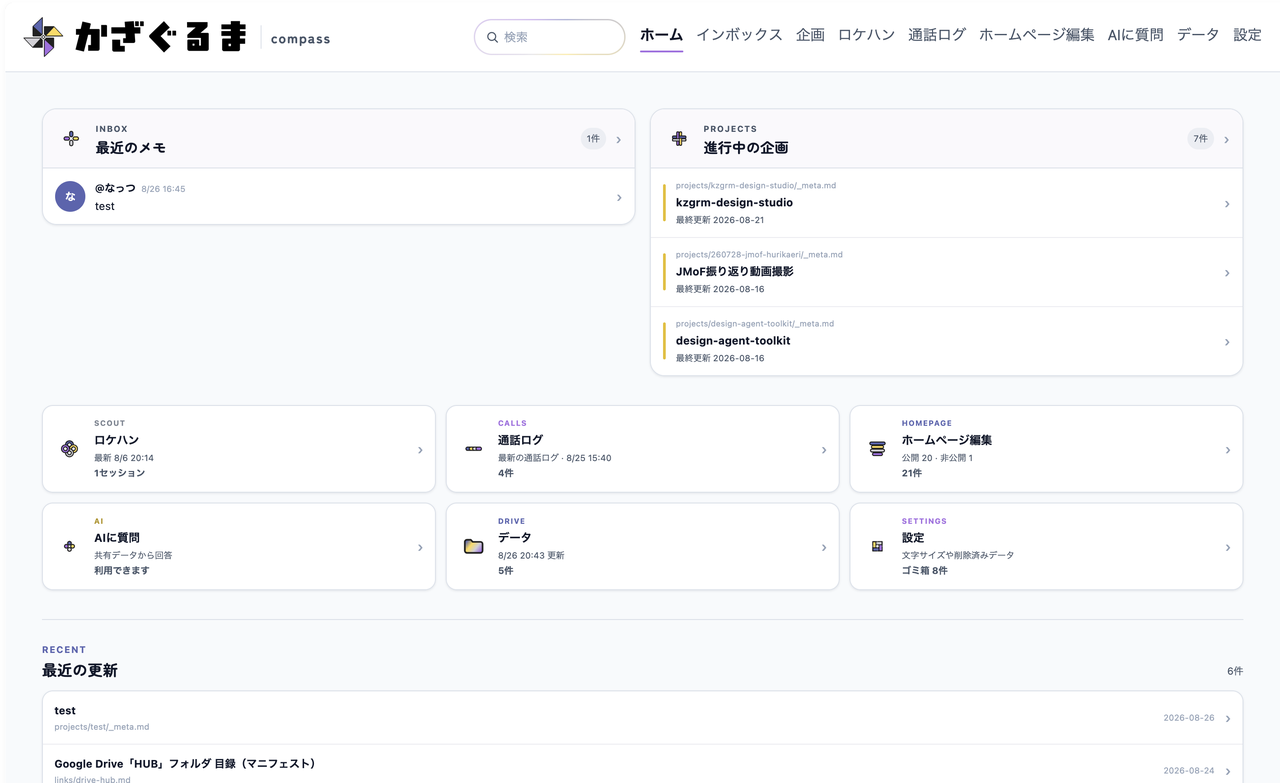
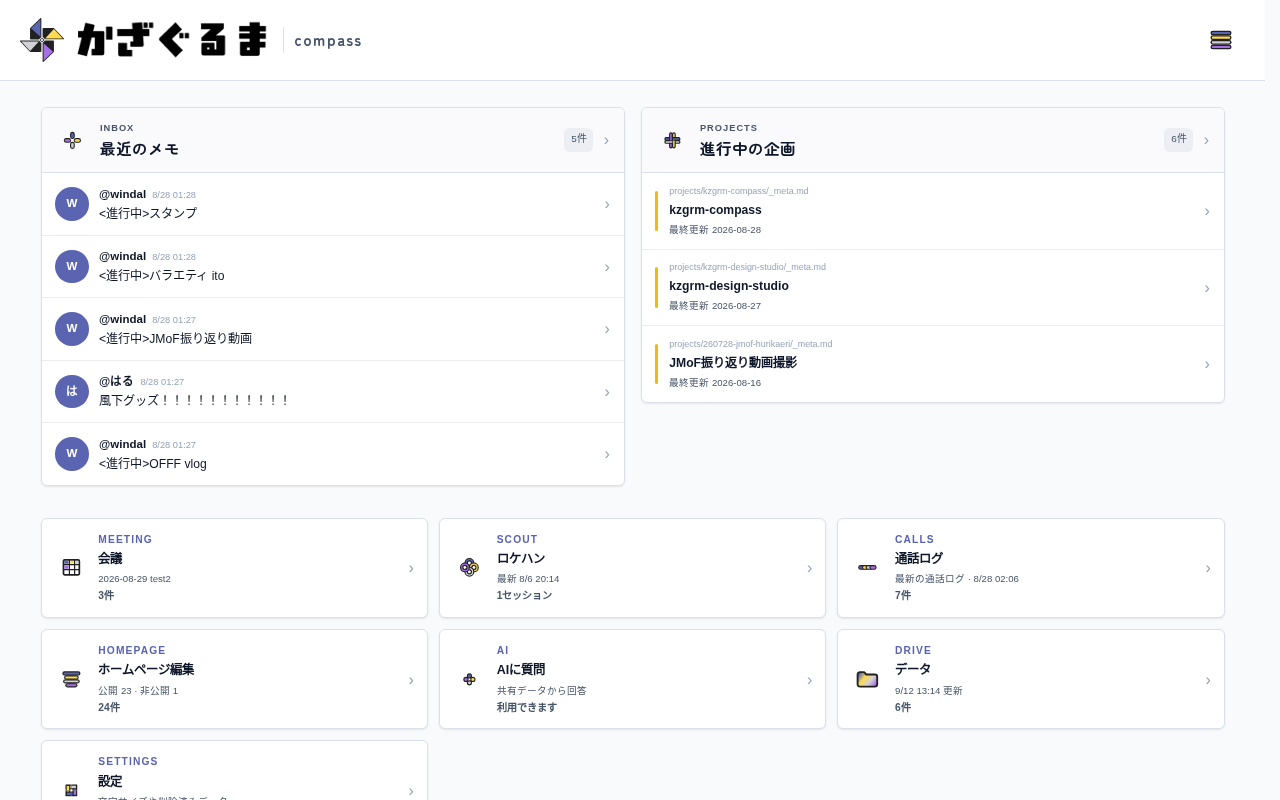
feat(opus): nattsu-guides を追加、全opusスクリーンショットを更新
nattsu-guides（学習ガイド7本の個人ポータル）をopusへ追加。private/Tailnet
限定のためlinkは付けず画像のみ（music-genre-mapと同じ扱い）。

既存10件のスクリーンショットも全て実機で撮り直し(2026-09-12時点)。
nattsu-design-studio・nattsu-guidesの見た目が今回のセッションで変わって
いたため。プレースホルダーは使わず全てPlaywrightでの実機撮影。

Claude-Session: https://claude.ai/code/session_016zCCg9UBEV2vndGaYUmDp3

diff --git a/src/content/opus/nattsu-guides.md b/src/content/opus/nattsu-guides.md
@@ -1,0 +1,8 @@
+---
+title: "nattsu-guides"
+category: dev
+description: "変調方式・音楽ジャンル・Rust構文・DSPフィルタなど、学習ガイドとインタラクティブツールを7本まとめた個人ポータル。"
+image: "/opus/nattsu-guides.png"
+date: 2026-09-12
+featured: false
+---
